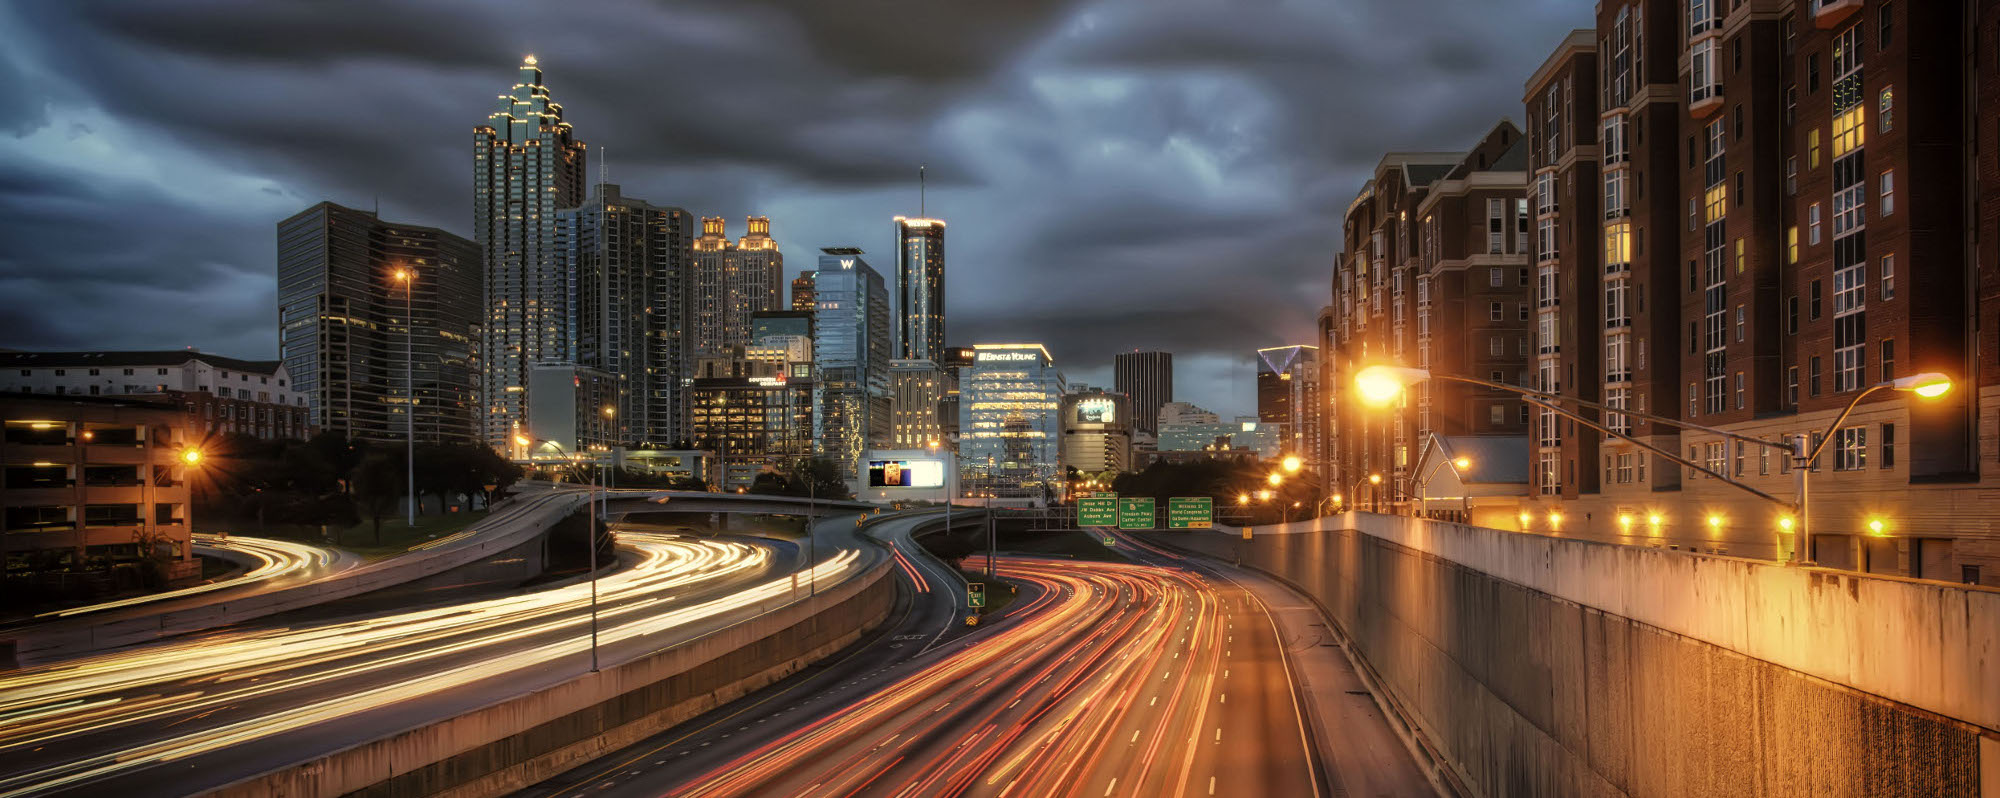
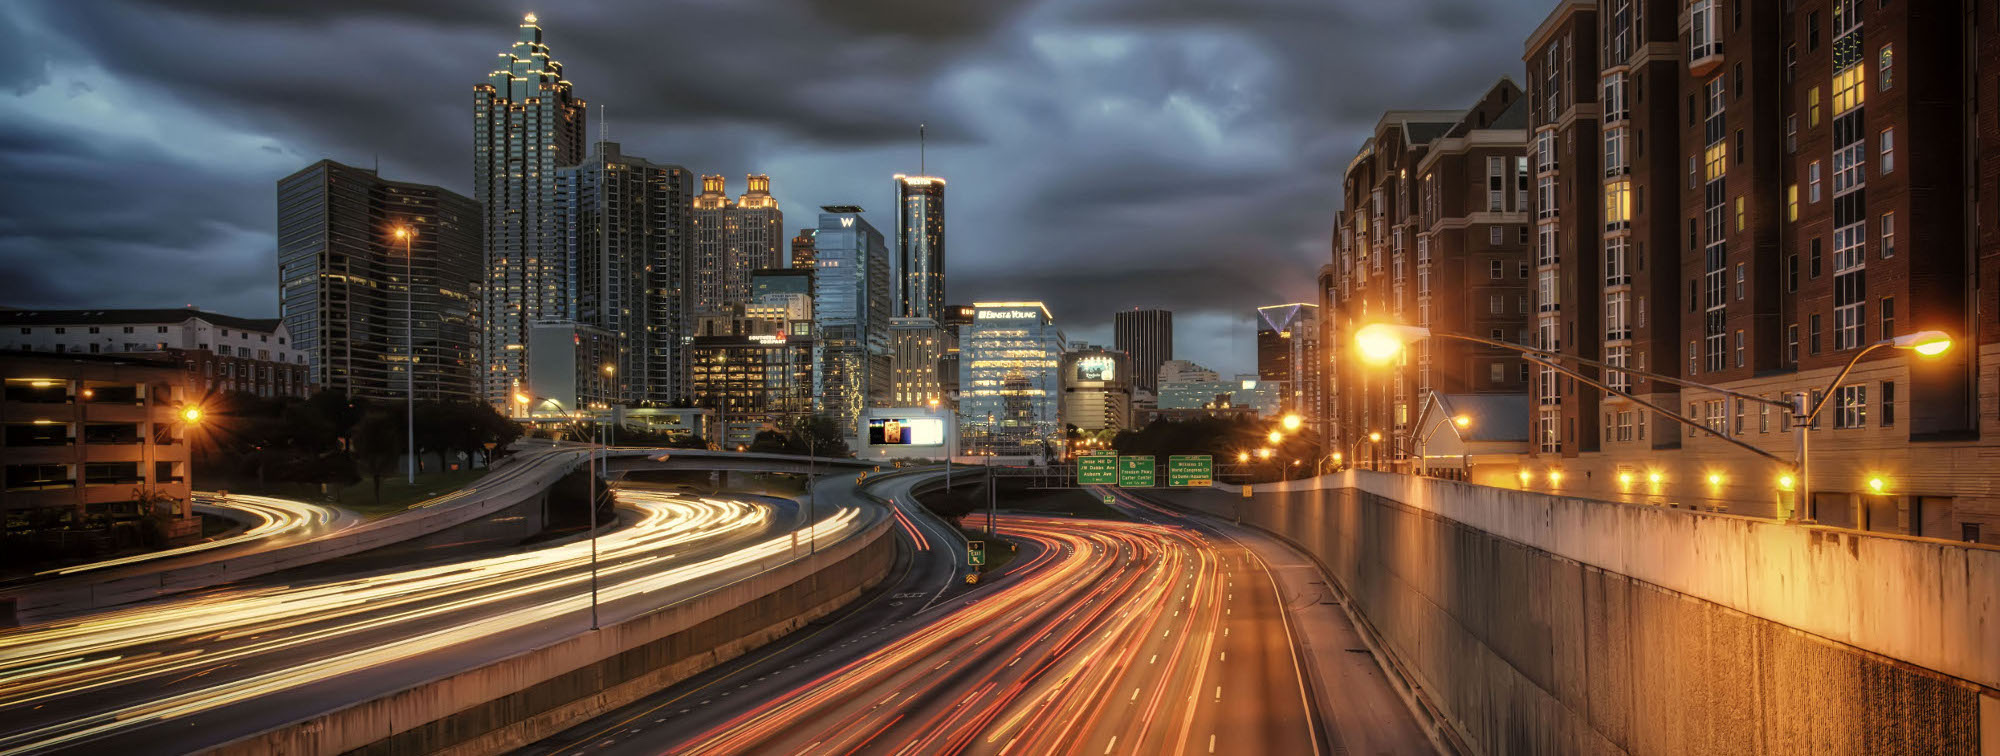
browse page color syncing between navigation and events

diff --git a/app/assets/stylesheets/home.css.scss b/app/assets/stylesheets/home.css.scss
@@ -4,63 +4,63 @@
 
 .home-controller {
 
-	.message-panel {
-		text-align: center;
-		font-size: 1.3em;
-		line-height: 1;
-		padding: 14px 10px 15px 10px;
-	} // message-panel
+  .message-panel {
+    text-align: center;
+    font-size: 1.3em;
+    line-height: 1;
+    padding: 14px 10px 15px 10px;
+  } // message-panel
 
-	.main-panel {
-		box-shadow: 0 -2px 5px 0 #000000;
-	
-		.title {
-			font-size: 650%;
-			line-height: 1;
-			text-align: center;
-		}
-		.sub-title {
-			font-size:140%;
-			text-align: center;
-		}
-		.call-to-action {
-			margin-top: 50px;
-			text-align: center;
-		}
-	
-		/* Landscape phones and down */
-		@media (max-width: 480px) {
-		}
+  .main-panel {
+    box-shadow: 0 -2px 5px 0 #000000;
 
-		/* Landscape phone to portrait tablet */
-		@media (max-width: 767px) {
-			.vertically-centrilize{
-				margin-top: 20px;
-				margin-bottom: 20px;
-			}
-		}
+    .title {
+      font-size: 650%;
+      line-height: 1;
+      text-align: center;
+    }
+    .sub-title {
+      font-size:140%;
+      text-align: center;
+    }
+    .call-to-action {
+      margin-top: 50px;
+      text-align: center;
+    }
 
-		/* Portrait tablet to landscape and desktop */
-		@media (min-width: 768px) {
-			background: url('atlanta-cropped.jpg') no-repeat fixed 0 0 #2F2F2F;
-			.vertically-centrilize{
-				margin-top: 170px;
-				margin-bottom: 170px;
-			}
-		}
+    /* Landscape phones and down */
+    @media (max-width: 480px) {
+    }
 
-	} // main-panel
-	
-	.divider {
-		height: 4px;
-		background-color: #0055CC;
-	}
+    /* Landscape phone to portrait tablet */
+    @media (max-width: 767px) {
+      .vertically-centrilize{
+        margin-top: 20px;
+        margin-bottom: 20px;
+      }
+    }
 
-	.lower-panel {
-		margin-top: 20px;
-		margin-top: 40px;
-	} // lower-panel
-	
+    /* Portrait tablet to landscape and desktop */
+    @media (min-width: 768px) {
+      background: url('atlanta-cropped.jpg') no-repeat 0 0 #2F2F2F;
+      .vertically-centrilize{
+        margin-top: 170px;
+        margin-bottom: 170px;
+      }
+    }
+
+  } // main-panel
+
+  .divider {
+    height: 4px;
+    background-color: #0055CC;
+  }
+
+  .lower-panel {
+    margin-top: 20px;
+    margin-top: 40px;
+  } // lower-panel
+
 }
 
 

diff --git a/app/assets/stylesheets/events.css.less b/app/assets/stylesheets/events.css.less
@@ -28,7 +28,7 @@
 		line-height: 1;
 		padding: 0px;
 		text-align: center;
-		.caption h6{
+		.caption h6 {
 			color: rgb(80,80,80);
 		}
 	}
@@ -42,17 +42,32 @@
 	@bkcolor3: rgba(0, 0, 0, 0.7);
 	@bkcolor4: rgba(0, 0, 0, 0.7);
 
-	@textcolor1: rgb(206,37,61);      // red
-	@textcolor2: rgb(158,182,62);     // green
-	@textcolor3: rgb(135,193,220);    // blue
-	@textcolor4: rgb(242,242,82);     // yellow
+	@self-improvement: #FF0000;
+	@professional: #FFD300;
+	@entertainment: #00CC00;
+	@outdoors: #0088CC;
+
+	#all-filter { background-color: none; color: white; }
+	#entertainment-filter { background-color: none; color: @entertainment; }
+	#professional-filter { background-color: none; color: @professional; }
+	#outdoors-filter { background-color: none; color: @outdoors; }
+	#self-improvement-filter { background-color: none; color: @self-improvement; }
+
+	.active #all-filter { background-color: black; color: white; }
+	.active #entertainment-filter { background-color: @entertainment; color: black; }
+	.active #professional-filter { background-color: @professional; color: black; }
+	.active #outdoors-filter { background-color: @outdoors; color: black; }
+	.active #self-improvement-filter { background-color: @self-improvement; color: black; }
 
 	.thumbnail.self-improvement, .thumbnail.self-improvement:hover {
 		.caption {
 			background-color: @bkcolor1;
 			h4 {
-				color: @textcolor1;
+				color: @self-improvement;
 			}
+		}
+		.color-bar {
+			background-color: @self-improvement;
 		}
 	}
 
@@ -60,8 +75,11 @@
 		.caption {
 			background-color:  @bkcolor2;
 			h4 {
-				color: @textcolor2;
+				color: @professional;
 			}
+		}
+		.color-bar {
+			background-color: @professional;
 		}
 	}
 
@@ -69,8 +87,11 @@
 		.caption {
 			background-color:  @bkcolor3;
 			h4 {
-				color: @textcolor3;
+				color: @entertainment;
 			}
+		}
+		.color-bar {
+			background-color: @entertainment;
 		}
 	}
 
@@ -78,8 +99,11 @@
 		.caption {
 			background-color:  @bkcolor4;
 			h4 {
-				color: @textcolor4;
+				color: @outdoors;
 			}
+		}
+		.color-bar {
+			background-color: @outdoors;
 		}
 	}
 
